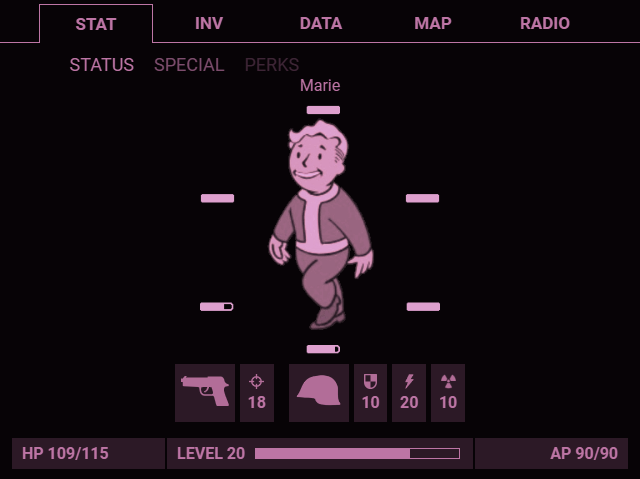
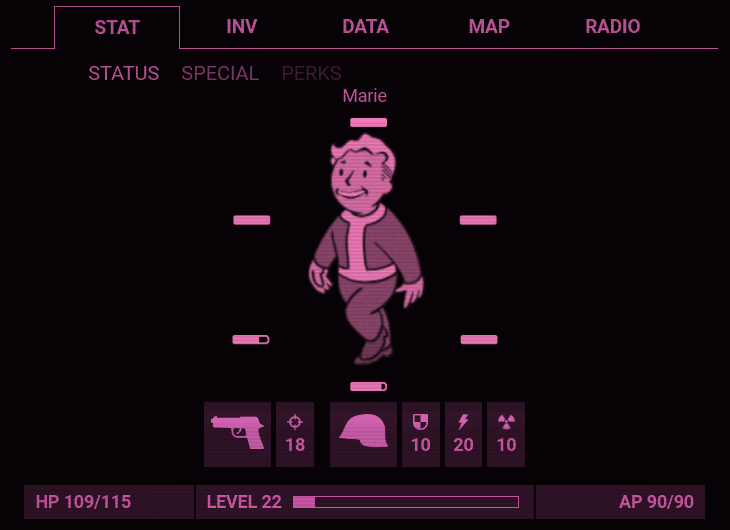
doc: Update README with new features and images

diff --git a/localizedReadme/README-fr.md b/localizedReadme/README-fr.md
@@ -21,6 +21,7 @@ Le **Cogilabs Pip-Boy 3000 Mk4** est une version du Pip-Boy de Fallout 4 que je 
   - [Affichage de l'inventaire](#affichage-de-linventaire)
   - [Carte](#carte)
   - [Radio](#radio)
+  - [Statut](#statut)
   - [Autre](#autre)
 - [Le Pip-Boy physique](#le-pip-boy-physique)
   - [Les branchements](#les-branchements)
@@ -39,7 +40,7 @@ Pour le moment, j'attends la livraison de mes composants, donc je travaille sur 
   
 ![La page de statut](/readme_sources/images/status.png)  
   
-L'application est principalement une reproduction de l'interface de Fallout 4. Pour le contenu, il y a des fichiers de profil. 
+L'application est principalement une reproduction de l'interface de Fallout 4, avec un overlay animé de "scanlines" plutôt sympa. Pour le contenu, il y a des fichiers de profil. 
 
 ### Fichier de profil
   
@@ -55,7 +56,7 @@ Dans votre fichier de profil se trouvent votre :
 → Elle sera utilisée pour calculer votre niveau, le niveau étant votre âge et la barre d'expérience montrant ce qu'il reste avant votre prochain anniversaire.  
   
 - Inventaire  
-→ Tous vos objets seront stockés ici pour affichage dans l'onglet inventaire.  
+→ Tous vos objets et caps seront stockés ici pour affichage dans l'onglet inventaire.  
   
 - Sélection de points SPECIAL et vos compétences  
 → Comme l'inventaire, ils seront stockés ici pour affichage dans l'onglet statut.  
@@ -71,6 +72,8 @@ Vous pouvez les charger en utilisant l'onglet des paramètres (l'espace vide à 
 Ensuite, il y a *votre* profil. 
 Si un fichier de profil nommé `local.json` est placé dans `<dossier personnel>/pipBoy/`, il sera automatiquement chargé au démarrage du Pip-Boy. S'il existe, un bouton "Local" est ajouté à l'onglet des paramètres pour le charger à nouveau s'il a été changé pour un autre.  
 S'il n'existe pas, le "mode démo" est chargé, utilisant le profil invité mais affichant "MODE DÉMO" à la place du nom d'utilisateur sur la page de statut.  
+
+**Nouveau !** Un créateur de profils en cours de développement est disponible [ici](https://cogilabs.eu/pipBoyProfileCreator/).  
   
 Utilisez [`guest.json`](/profiles/guest.json) et [`items.json`](/items.json) pour créer votre propre fichier `local.json`.  
   
@@ -144,6 +147,18 @@ Pour le graphique, il était généré aléatoirement au chargement de l'onglet,
 Pour mon Pip-Boy, j'ai ajouté la plupart des musiques de Fallout 4 et Fallout 76, que je ne distribuerai bien sûr pas ici. Je recommande de mettre des musiques de Fallout, mais vous pouvez bien sûr mettre ce que vous voulez dans ce dossier.  
   
 ![Radio](/readme_sources/images/radio.png) 
+
+### Statut
+
+Dans l'onglet Statut, en plus de la page principale, les attributs S.P.E.C.I.A.L. et les perks sont également disponibles. En complément de la personnalisation des rangs d'attributs dans le fichier de profil, vous pouvez aussi équiper n'importe laquelle des perks présentes dans Fallout 4.
+
+L'onglet SPECIAL affichera chaque attribut, avec son rang, son image animée et sa description.
+
+L'onglet des perks affichera chaque perk présente dans le fichier de profil, avec son image animée, le rang sélectionné (affiché en étoiles), et la description correspondant à ce rang.
+
+![Attributs](/readme_sources/images/attributes.png)
+
+![Perks](/readme_sources/images/perks.png)
 
 ### Autre
 

diff --git a/README.md b/README.md
@@ -21,6 +21,7 @@ The **Cogilabs Pip-Boy 3000 Mk4** is a version of Fallout 4's Pip-Boy I'm making
   - [Inventory display](#inventory-display)
   - [Map](#map)
   - [Radio](#radio)
+  - [Status](#status)
   - [Other](#other)
 - [The physical Pip-Boy](#the-physical-pip-boy)
   - [The wiring](#the-wiring)
@@ -39,7 +40,7 @@ For the moment I'm waiting for the delivery of my components, so I'm working on 
   
 ![The Status page](/readme_sources/images/status.png)  
   
-The app is mostly a reproduction of Fallout 4 interface, for the content, there's profile files. 
+The app is mostly a reproduction of Fallout 4 interface, with a pretty cool animated scanlines overlay. For the content, there's profile files. 
 
 ### Profile file
   
@@ -55,7 +56,7 @@ Inside your profile file are your:
 → It will be used to calculate your level, the level itself being your age and the experience bar showing what's left before your next birthday.  
   
 - Inventory  
-→ All your items will be stored there for display in the inventory tab.  
+→ All your items and caps will be stored there for display in the inventory tab.  
   
 - Special points and perks  
 → Like the inventory, they will be stored there for display in the status tab.  
@@ -71,6 +72,8 @@ You can load them using the settings tab (the empty space on the left of the STA
 Then there's *your* profile. 
 If a profile file named `local.json` is placed in `<home folder>/pipBoy/`, it will be automatically loaded on Pip-Boy start. If it exists, a "Local" button is added to the settings tab to load it again if changed for another.  
 If it doesn't exist, the "Demo mode" is loaded, loading the Guest profile but displaying "DEMO MODE" in the username spot on the status page.  
+
+**New!** There is a work in progress profile creator available [here](https://cogilabs.eu/pipBoyProfileCreator/).
   
 Use [`guest.json`](/profiles/guest.json) and [`items.json`](/items.json) to create your own `local.json` file.  
   
@@ -144,6 +147,19 @@ For the graph, it used to be randomly generated on tab loading, but I didn't lik
 For my Pip-Boy I added most songs from Fallout 4 and Fallout 76, which I will of course not distribute here. I do recommend putting in Fallout songs, but you can of course put whatever you want in that folder.  
   
 ![Radio](/readme_sources/images/radio.png) 
+
+### Status
+
+In the Status tab, along with the main page, the S.P.E.C.I.A.L attributes and perks are also available.
+Along with the customisation of attributes ranks in the profile file, you can also equip any of the perks present in Fallout 4.
+
+The SPECIAL tab will show every attribute, with their rank, their animated picture and description.
+
+The perks tab will show any of the perks present in the profile file, with their animated picture, selected rank (shown in stars), and the description *that corresponds to that rank*.
+
+![Attributes](/readme_sources/images/attributes.png)
+
+![Perks](/readme_sources/images/perks.png)
 
 ### Other
 
